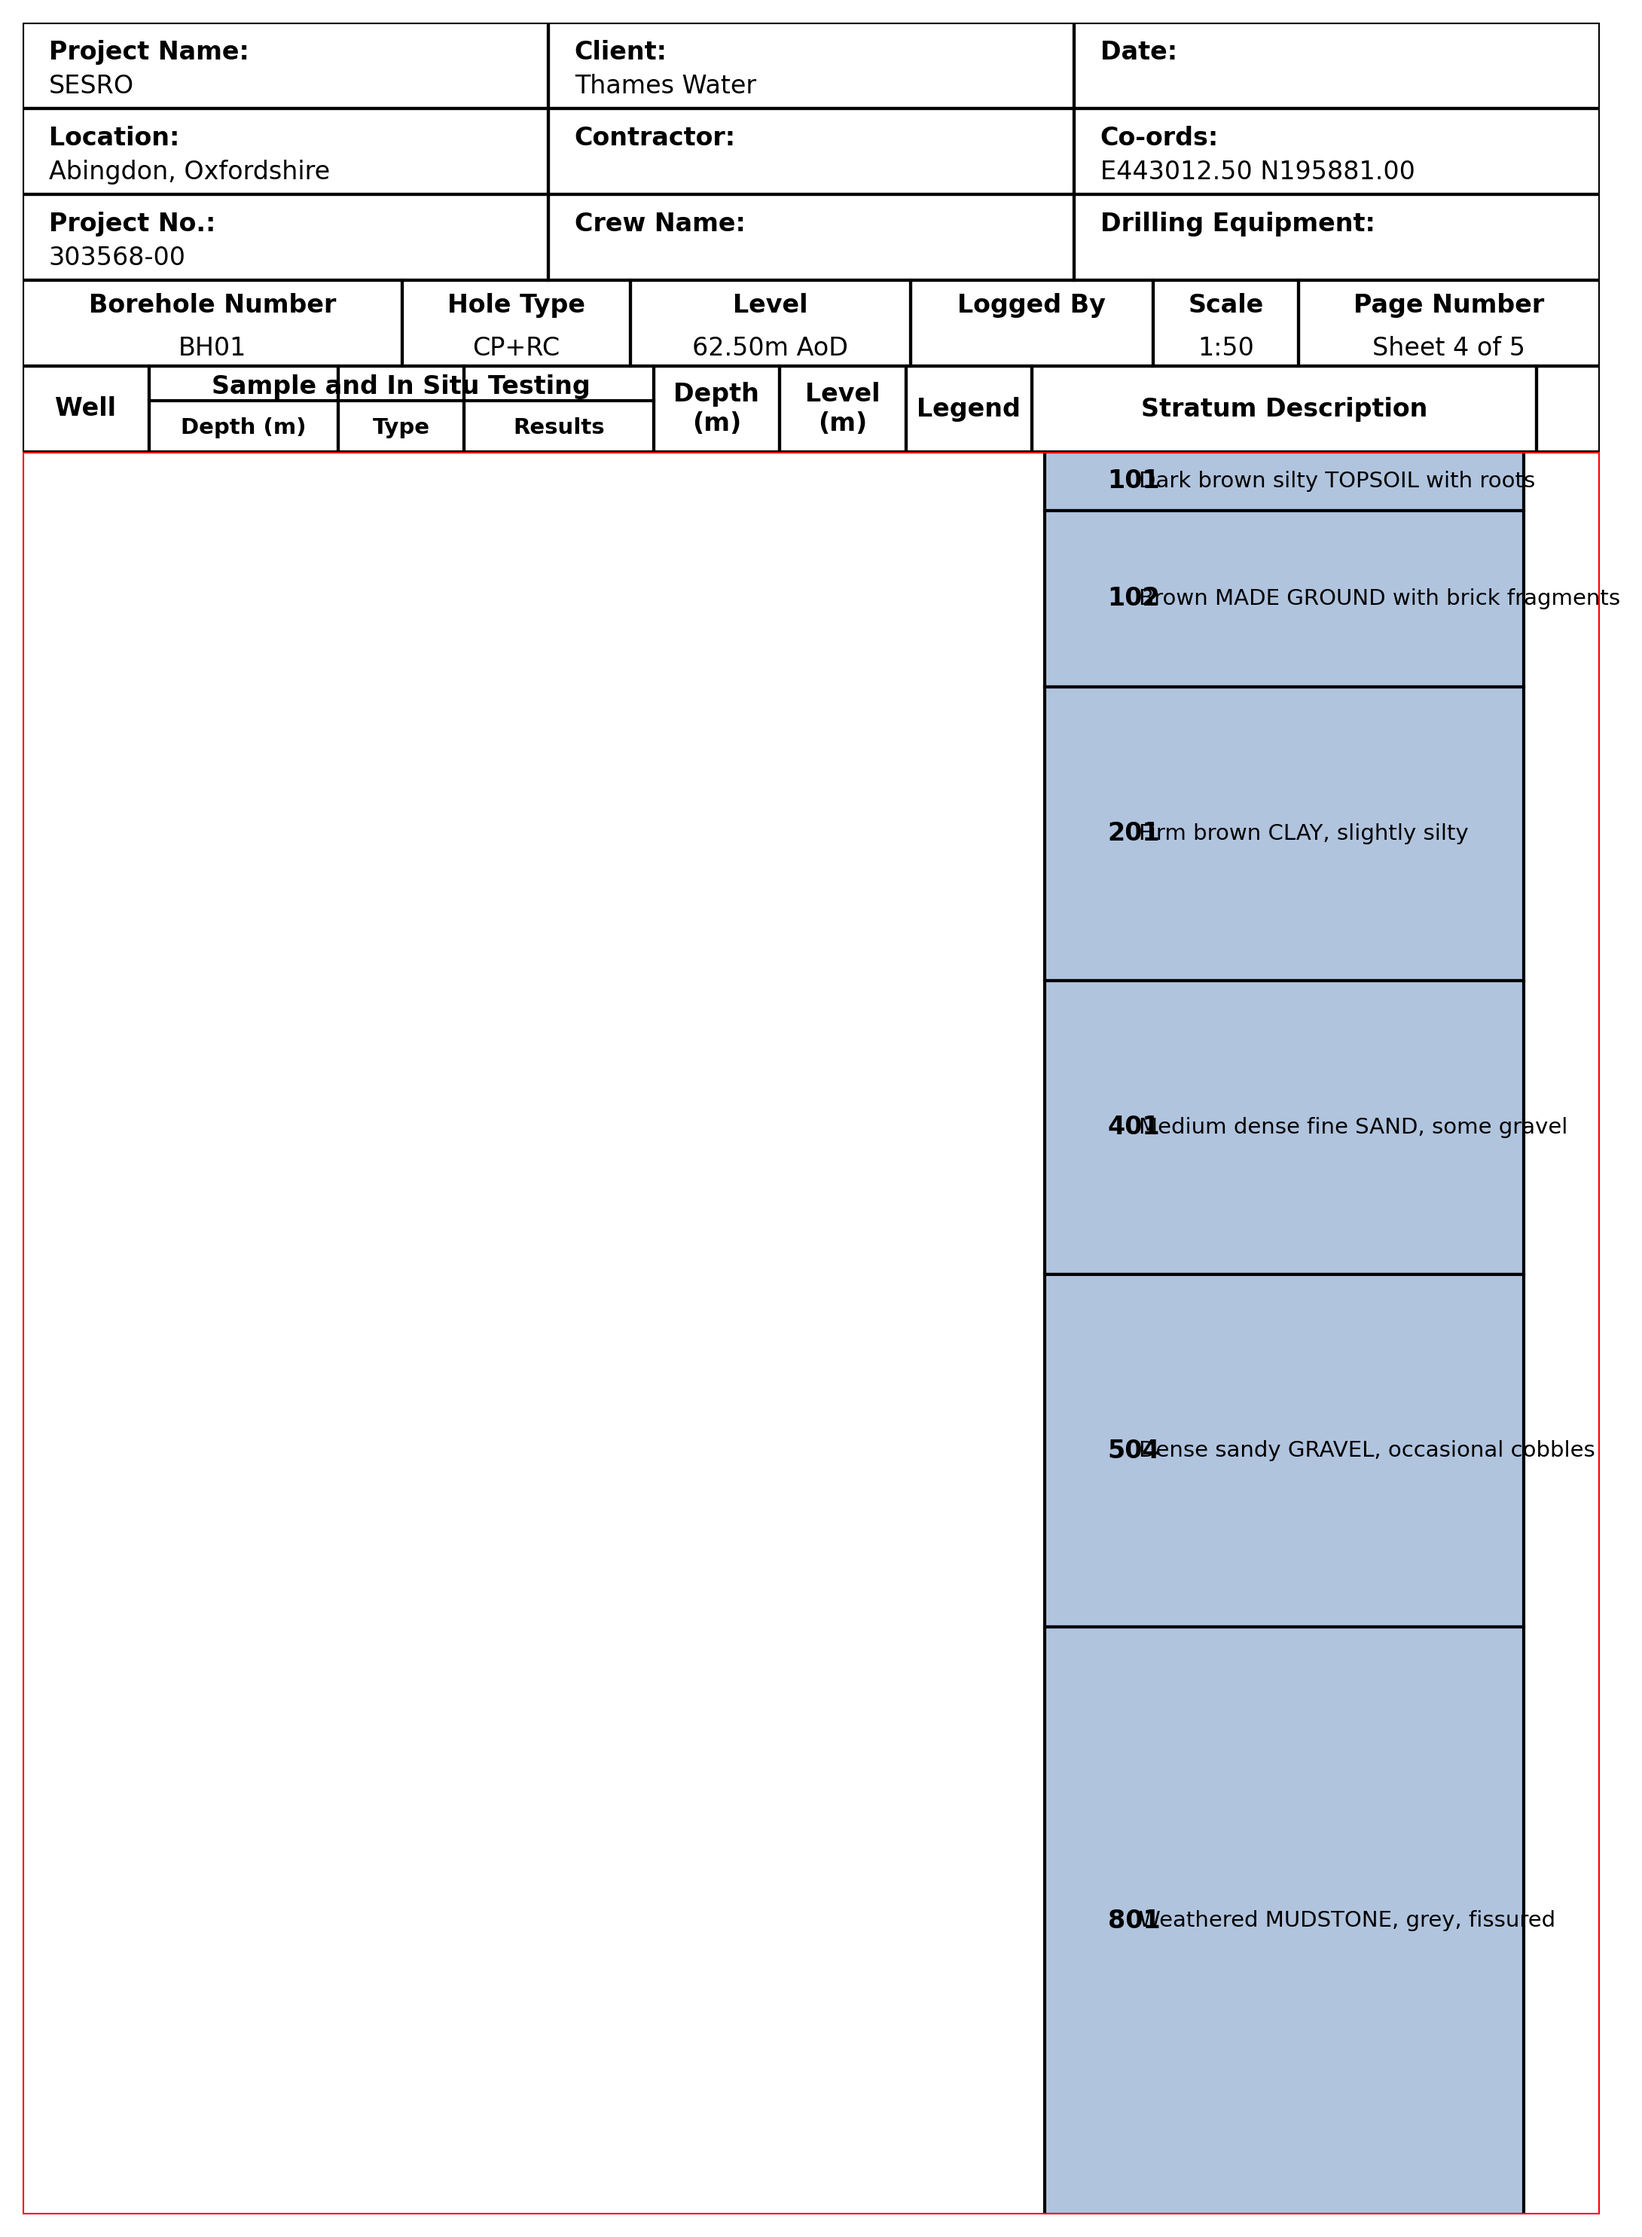
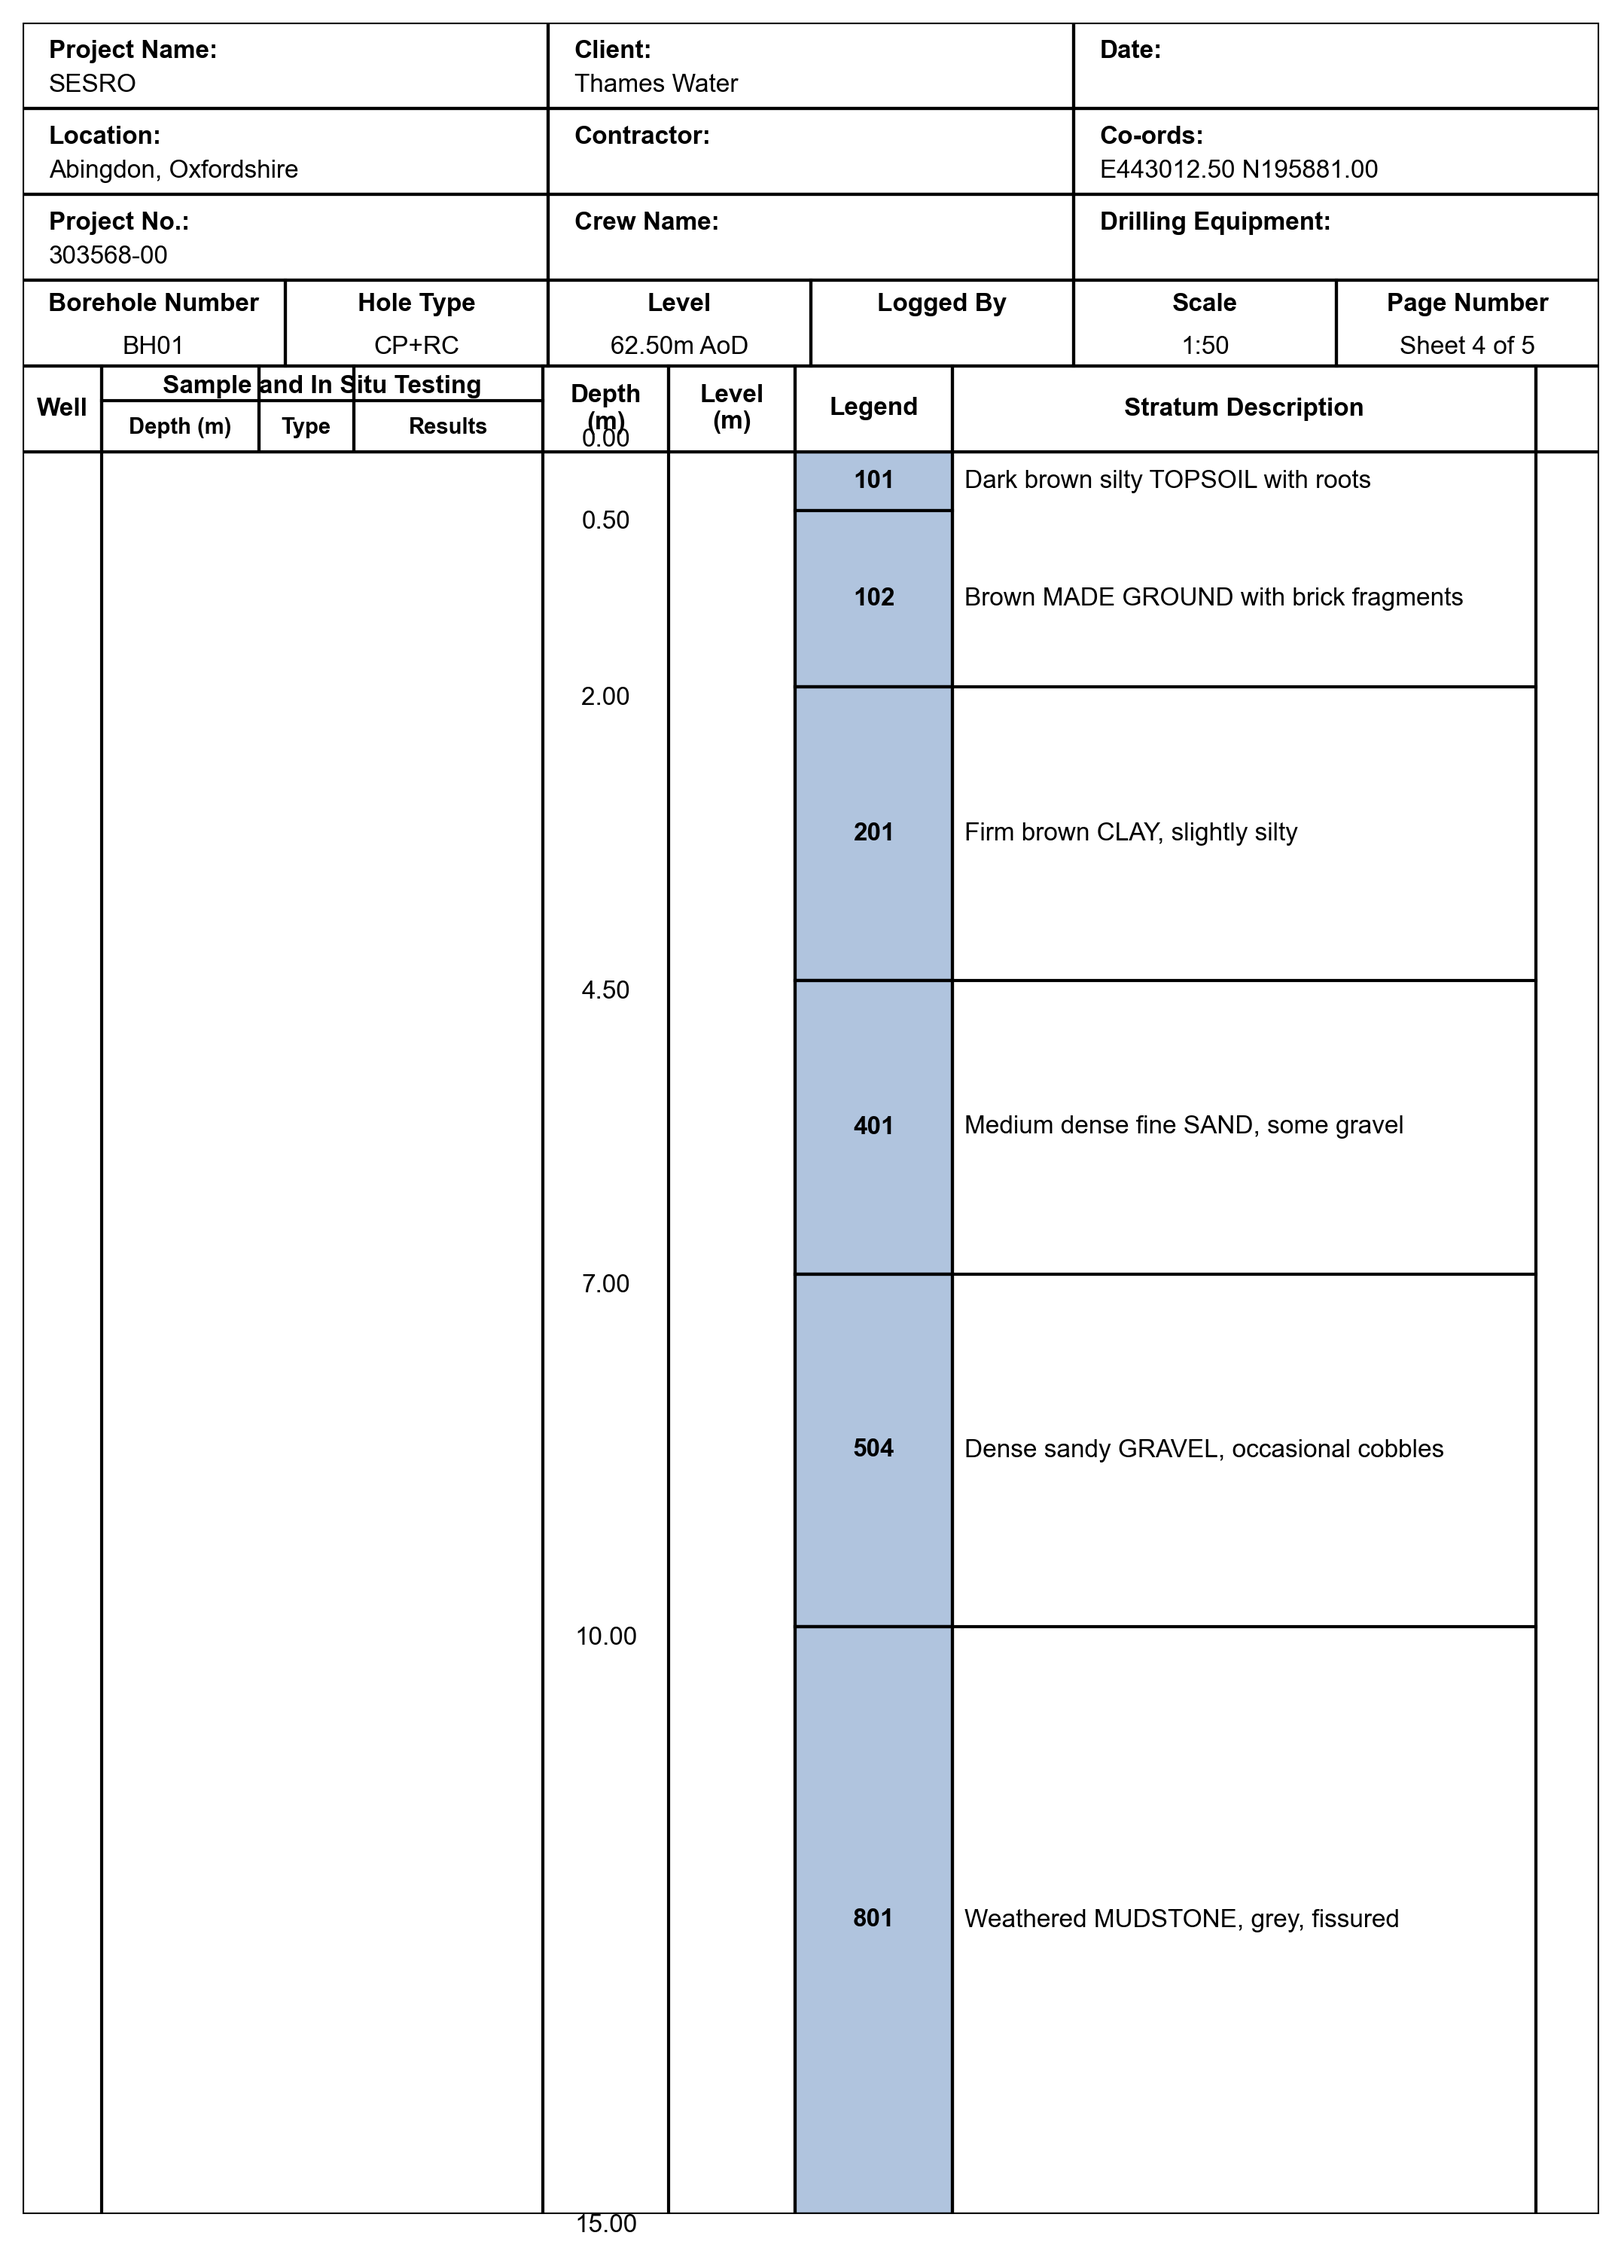
4

diff --git a/borehole_log_professional_dummy - Copy.py b/borehole_log_professional_dummy - Copy.py
@@ -66,7 +66,7 @@ def draw_header(ax):
     tmp_fig = plt.figure(figsize=(8, 2))
     tmp_ax = tmp_fig.add_subplot(111)
     renderer = tmp_fig.canvas.get_renderer()
-    fontprops = mpl.font_manager.FontProperties(size=8)
+    fontprops = mpl.font_manager.FontProperties(family="Arial", size=8)
     cell_padd = 12  # pixels, padding left and right
 
     # Top 3 rows
@@ -105,9 +105,11 @@ def draw_header(ax):
         )
         for i in range(3)
     ]
-    # For the bottom row (6 columns), use its own widths
-    bottom_col_widths_px = max_bottom_widths
-    # For a simple fix, set total width as sum of bottom row widths (since that's the widest)
+    # For the bottom row (6 columns), use its own widths, but make each cell half the width of the cells above
+    # Calculate the average width of the top row columns
+    avg_top_col_width = sum(top_col_widths_px) / 3
+    # Each bottom cell is half the width of a top cell
+    bottom_col_widths_px = [avg_top_col_width / 2] * 6
     col_widths_px = bottom_col_widths_px
     total_width_px = sum(col_widths_px)
     dpi = tmp_fig.dpi
@@ -149,8 +151,9 @@ def draw_header(ax):
                     label,
                     va="top",
                     ha="left",
-                    fontsize=8,  # Increased font size
+                    fontsize=8,
                     fontweight="bold",
+                    fontname="Arial",
                 )
 
             # Value (normal, lower part of cell)
@@ -161,7 +164,8 @@ def draw_header(ax):
                     value,
                     va="top",
                     ha="left",
-                    fontsize=8,  # Increased font size
+                    fontsize=8,
+                    fontname="Arial",
                 )
 
     # Draw bottom row rectangles and text
@@ -193,8 +197,9 @@ def draw_header(ax):
             title_text,
             va="top",
             ha="center",
-            fontsize=8,  # Increased font size
+            fontsize=8,
             fontweight="bold",
+            fontname="Arial",
         )
         # Draw value (centered horizontally, lower in cell)
         ax.text(
@@ -203,7 +208,8 @@ def draw_header(ax):
             bottom_values[i],
             va="top",
             ha="center",
-            fontsize=8,  # Increased font size
+            fontsize=8,
+            fontname="Arial",
         )
         x += col_width
 
@@ -212,7 +218,7 @@ def draw_header(ax):
 
     # Define column widths for the new row (adjusted for better text fitting)
     # Increased proportions to accommodate longer text while maintaining relationships
-    new_col_widths = [0.08, 0.12, 0.08, 0.12, 0.08, 0.08, 0.08, 0.32, 0.04]
+    new_col_widths = [0.05, 0.10, 0.06, 0.12, 0.08, 0.08, 0.10, 0.37, 0.04]
     # Well, Depth, Type, Results, Depth, Level, Legend, Stratum, Empty
     new_col_labels = [
         "Well",
@@ -250,8 +256,9 @@ def draw_header(ax):
                 "Sample and In Situ Testing",
                 va="top",
                 ha="center",
-                fontsize=8,  # Increased font size
+                fontsize=8,
                 fontweight="bold",
+                fontname="Arial",
             )
             # Draw horizontal line to separate merged header from sub-headers
             ax.plot(
@@ -269,8 +276,9 @@ def draw_header(ax):
                 label,
                 va="top",
                 ha="center",
-                fontsize=7,  # Increased font size
+                fontsize=7,
                 fontweight="bold",
+                fontname="Arial",
             )
         elif label:  # Other column labels
             ax.text(
@@ -279,8 +287,9 @@ def draw_header(ax):
                 label,
                 va="center",
                 ha="center",
-                fontsize=8,  # Increased font size
+                fontsize=8,
                 fontweight="bold",
+                fontname="Arial",
             )
 
         x += col_width
@@ -333,21 +342,38 @@ def plot_dummy_borehole_log():
     )
     from matplotlib.patches import Rectangle as MplRectangle
 
+    # Draw a black border around the log plot area
     log_ax.add_patch(
-        MplRectangle((0, 0), 1, 1, fill=False, edgecolor="red", linewidth=1, zorder=10)
+        MplRectangle(
+            (0, 0), 1, 1, fill=False, edgecolor="black", linewidth=1, zorder=10
+        )
     )
     log_ax.set_xlim(0, 1)
     log_ax.set_ylim(0, 1)
     log_ax.axis("off")
+
+    # Use the same column widths as the last (new) row in the header for the log plot area
+    log_col_widths = [0.05, 0.10, 0.06, 0.12, 0.08, 0.08, 0.10, 0.37, 0.04]
+    log_col_x = [0]
+    for w in log_col_widths:
+        log_col_x.append(log_col_x[-1] + w)
+
+    # Draw vertical lines for each column boundary, skipping those that would cut through the merged 'Sample and In Situ Testing' cell
+    # The merged cell spans columns 1, 2, 3 (indices 1, 2, 3), so skip boundaries at log_col_x[2] and log_col_x[3]
+    for idx, x_val in enumerate(log_col_x[1:-1], start=1):
+        if idx in (2, 3):
+            continue
+        log_ax.plot([x_val, x_val], [0, 1], color="black", linewidth=1, zorder=20)
+
+    # Optionally, draw a horizontal line at the top of the log area to match the header
+    log_ax.plot([0, 1], [1, 1], color="black", linewidth=1, zorder=20)
+
     # Now plot the lithology bars and text in the log area, using the same normalized coordinates
-    col_props = [0.08, 0.12, 0.08, 0.12, 0.08, 0.08, 0.08, 0.32, 0.04]
-    col_x = [0]
-    for w in col_props:
-        col_x.append(col_x[-1] + w)
-    bar_left = col_x[7]
-    bar_width = col_props[7]
-    desc_x = bar_left + 0.01
-    code_x = bar_left + bar_width * 0.15
+    # Legend column (index 6) and Stratum Description column (index 7)
+    legend_left = log_col_x[6]
+    legend_width = log_col_widths[6]
+    desc_left = log_col_x[7]
+    desc_width = log_col_widths[7]
     log_depth = DUMMY_BOREHOLE_DATA["Depth_Base"].max()
 
     def depth_to_y(depth):
@@ -357,10 +383,11 @@ def plot_dummy_borehole_log():
         y_top = depth_to_y(row["Depth_Top"])
         y_base = depth_to_y(row["Depth_Base"])
         y_center = (y_top + y_base) / 2
+        # Draw lithology bar (color/hatch) filling the entire Legend column
         log_ax.add_patch(
             MplRectangle(
-                (bar_left + bar_width * 0.025, y_base),
-                bar_width * 0.95,
+                (legend_left, y_base),
+                legend_width,
                 y_top - y_base,
                 facecolor="#b0c4de",
                 edgecolor="black",
@@ -368,27 +395,69 @@ def plot_dummy_borehole_log():
                 zorder=2,
             )
         )
+        # Draw geology code centered in the Legend column
         log_ax.text(
-            code_x,
+            legend_left + legend_width / 2,
             y_center,
             f"{row['Geology_Code']}",
             va="center",
-            ha="left",
+            ha="center",
             fontsize=8,
             color="black",
             fontweight="bold",
+            fontname="Arial",
             zorder=3,
         )
+        # Draw description text within the Stratum Description column
         log_ax.text(
-            desc_x + bar_width * 0.18,
+            desc_left + desc_width * 0.02,
             y_center,
             row["Description"],
             va="center",
             ha="left",
-            fontsize=7,
+            fontsize=8,
             color="black",
+            fontname="Arial",
+            zorder=3,
+            wrap=True,
+        )
+        # Draw depth values in the Depth (m) column (index 4)
+        depth_left = log_col_x[4]
+        depth_width = log_col_widths[4]
+        # Only display the top depth for the first section, and only the base depth for each section
+        if i == 0:
+            log_ax.text(
+                depth_left + depth_width / 2,
+                y_top,
+                f"{row['Depth_Top']:.2f}",
+                va="bottom",
+                ha="center",
+                fontsize=8,
+                color="black",
+                fontname="Arial",
+                zorder=3,
+            )
+        # Always display the base depth at the bottom of each section
+        log_ax.text(
+            depth_left + depth_width / 2,
+            y_base,
+            f"{row['Depth_Base']:.2f}",
+            va="top",
+            ha="center",
+            fontsize=8,
+            color="black",
+            fontname="Arial",
             zorder=3,
         )
+        # Draw a horizontal line dividing the lithology/description sections
+        if i > 0:
+            log_ax.plot(
+                [legend_left, desc_left + desc_width],
+                [y_base, y_base],
+                color="black",
+                linewidth=1,
+                zorder=15,
+            )
 
     # Save as A4-sized PNG image with 300 DPI
     fig.savefig("borehole_log_output.png", dpi=300, bbox_inches="tight")
